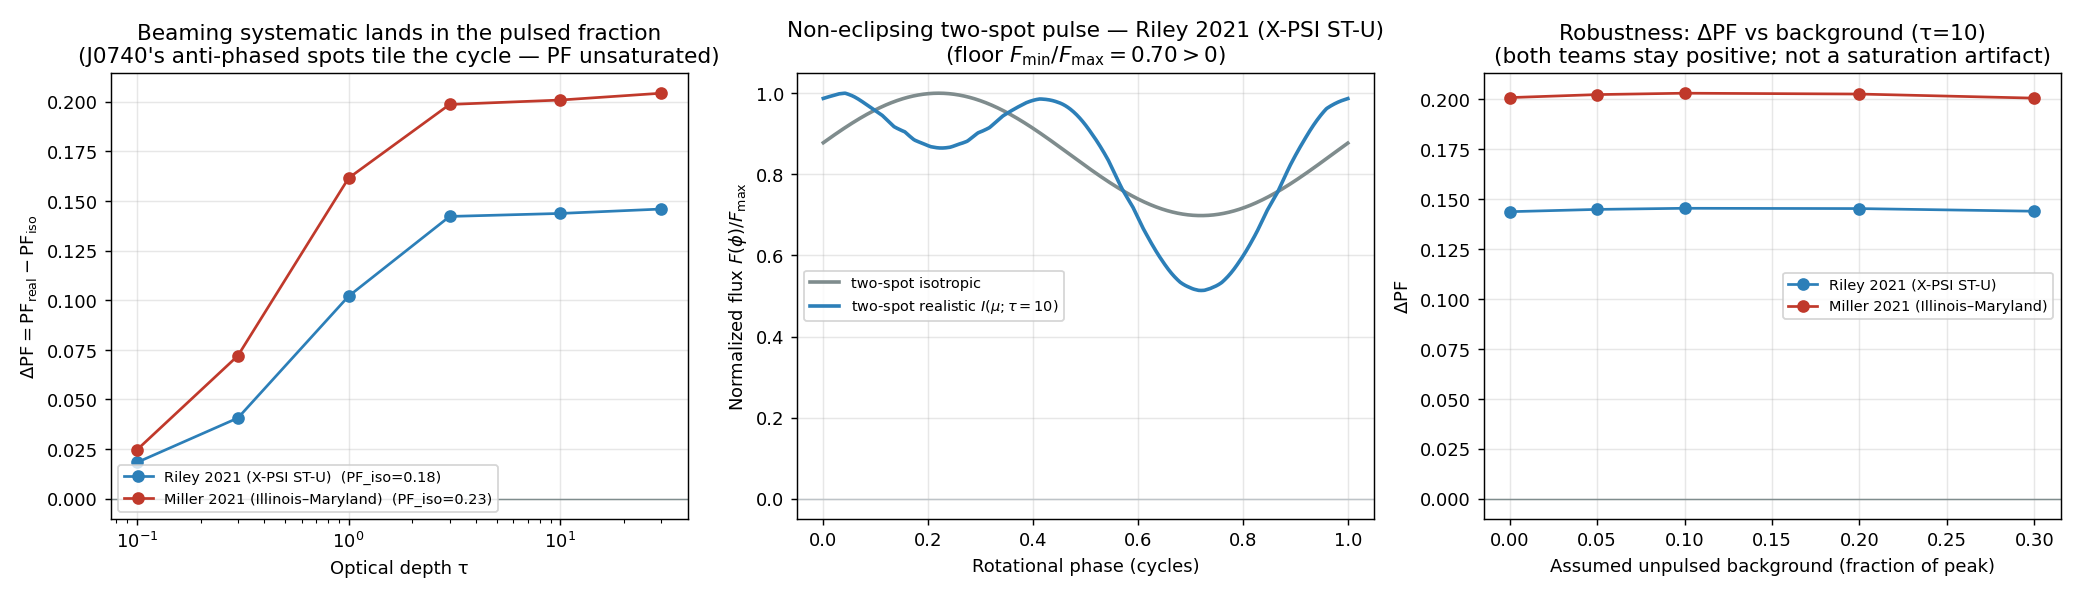
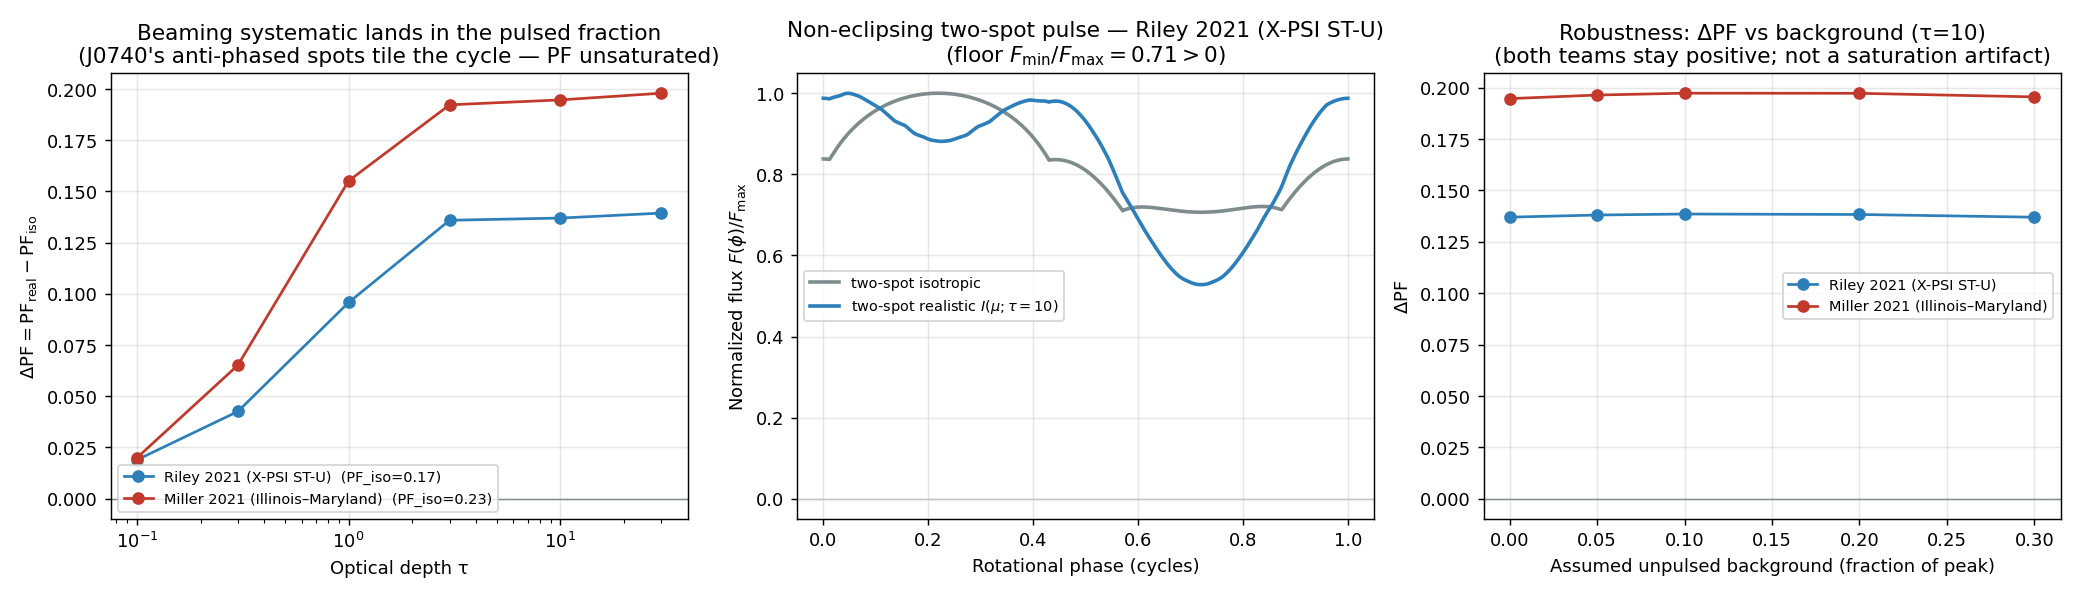
feat: v0.9.9.1 — enact Gate G1, switch J0740 anchors to exact bending
B2 measured that the linear Beloborodov map biases the J0740 headline ΔPF beyond
its own error bar (−0.0066, 2.1σ at Riley u=0.494; −0.0060, 1.1σ at Miller
u=0.444), so Gate G1 switches the anchors + phase-diagram star markers to the
exact Schwarzschild map. Same sign/size/geometry-routing — a tightening, not a
reversal: corrected headline +0.137 ± 0.003 (Riley) / +0.195 ± 0.005 (Miller),
the 0 Hz baseline Track C (Doppler/G2) stacks on top of.

anchor_lib.multi_spot_flux + the two visibility helpers gain an opt-in bending=
(None = linear, bit-for-bit unchanged). j0740_anchor.run() now builds
ExactBending(u) per anchor; phase_diagram.star_marker uses exact bending per
star while the broad heatmap stays linear (tolerance ≤ 0.007 at the compact
edge). a3_seed_errors stays linear on purpose — its gate compares against the
v0.9.7 (linear) convergence study, so the check is only meaningful linear-linear.

Bonus correction: linear extrapolates past the true grazing horizon (claims
visibility to ψ=167° vs the exact 150.6°), so "neither J0740 spot ever sets" was
an artifact — exact reveals ≈14% per-spot eclipse for Riley, yet the anti-phased
pair still tiles (floor 0.70), sharpening the tiling-not-eclipse thesis.
Regenerated figures on exact bending. Suite 82 green; linear headline reproduces
bit-for-bit.

diff --git a/scripts/j0740_anchor.py b/scripts/j0740_anchor.py
@@ -52,7 +52,7 @@ Run from the repository root:  python scripts/j0740_anchor.py
 import numpy as np
 import matplotlib.pyplot as plt
 
-from mcrt import beaming_lookup, pulsed_fraction
+from mcrt import ExactBending, beaming_lookup, pulsed_fraction
 from anchor_lib import (
     BACKGROUND_FRACS,
     N_PHASE,
@@ -123,15 +123,22 @@ MILLER = Anchor(
 ANCHORS = (RILEY, MILLER)
 
 
-def sweep_anchor(anchor, tau_values, mu_centers, intensity_by_tau):
+def sweep_anchor(anchor, tau_values, mu_centers, intensity_by_tau, bending=None):
     """ΔPF(τ) (the headline) plus the visibility numbers that explain its size.
 
     Both J0740 anchors keep PF unsaturated — Riley because no spot sets, Miller because
     the anti-phased spots tile the cycle even though each center dips behind ~21% of the
     time — so ΔPF is a live pulsed-fraction signal for both. The eclipse fraction and
     flux floor returned alongside it are what make that statement checkable.
+
+    ``bending`` selects the light-bending map: ``None`` is Beloborodov's linear default
+    (used by the ``a3_seed_errors`` linear cross-check against the v0.9.7 convergence
+    study); the standalone :func:`run` passes an :class:`mcrt.bending.ExactBending` per
+    anchor, because Gate G1 (v0.9.9.1) switched the J0740 anchors to exact Schwarzschild
+    bending — the −0.0066 (2.1σ) linear bias at u = 0.494 exceeds the seed error bar.
     """
-    iso = two_spot_flux(anchor.inclination, anchor.compactness, anchor.spots, None)
+    iso = two_spot_flux(anchor.inclination, anchor.compactness, anchor.spots, None,
+                        bending=bending)
     pf_iso = pulsed_fraction(iso)
 
     n_tau = len(tau_values)
@@ -142,7 +149,8 @@ def sweep_anchor(anchor, tau_values, mu_centers, intensity_by_tau):
     real_at_shape_tau = None
     for ti in range(n_tau):
         beaming = beaming_lookup(mu_centers, intensity_by_tau[ti])
-        real = two_spot_flux(anchor.inclination, anchor.compactness, anchor.spots, beaming)
+        real = two_spot_flux(anchor.inclination, anchor.compactness, anchor.spots,
+                             beaming, bending=bending)
         pf_real[ti] = pulsed_fraction(real)
         delta_pf[ti] = pf_real[ti] - pf_iso
         shape_rms[ti], _ = waveform_shape_change(iso, real)
@@ -151,9 +159,11 @@ def sweep_anchor(anchor, tau_values, mu_centers, intensity_by_tau):
 
     # Per-spot visibility: eclipse fraction (0 ⇒ never sets) and the grazing μ_min.
     eclipse = [single_spot_eclipsed_fraction(anchor.inclination, s.colatitude,
-                                             anchor.compactness) for s in anchor.spots]
+                                             anchor.compactness, bending=bending)
+               for s in anchor.spots]
     min_mu = [single_spot_min_visible_mu(anchor.inclination, s.colatitude,
-                                         anchor.compactness) for s in anchor.spots]
+                                         anchor.compactness, bending=bending)
+              for s in anchor.spots]
 
     return {
         "pf_iso": pf_iso,
@@ -276,9 +286,17 @@ def print_summary(tau_values, results):
 
 
 def run():
+    """Standalone run — **exact Schwarzschild bending** (Gate G1, v0.9.9.1).
+
+    Each anchor gets its own :class:`mcrt.bending.ExactBending(u)`; the linear
+    map is retained only in ``a3_seed_errors`` as the convergence cross-check.
+    """
     tau_values, mu_centers, intensity_by_tau = load_library()
-    results = {a.label: sweep_anchor(a, tau_values, mu_centers, intensity_by_tau)
-               for a in ANCHORS}
+    results = {}
+    for a in ANCHORS:
+        bending = ExactBending(a.compactness)
+        results[a.label] = sweep_anchor(a, tau_values, mu_centers,
+                                        intensity_by_tau, bending=bending)
     return tau_values, results
 
 

diff --git a/scripts/anchor_lib.py b/scripts/anchor_lib.py
@@ -53,46 +53,63 @@ class Anchor(NamedTuple):
     note: str             # weighting provenance / caveat
 
 
-def multi_spot_flux(inclination, compactness, spots, beaming, n_phase=N_PHASE):
+def multi_spot_flux(inclination, compactness, spots, beaming, n_phase=N_PHASE,
+                    bending=None):
     """Weighted sum of point-spot fluxes; azimuth = integer phase roll.
 
     Light is additive, so the observed flux is the weighted sum of each spot's
     single-spot profile. A spot at longitude φ₀ produces the φ₀-shifted profile,
     which on a uniform full-cycle grid is ``np.roll`` by round(φ₀·n_phase). The
     same ``beaming`` is handed to every spot, so swapping it is the only change.
+
+    ``bending`` selects the light-bending map, matching ``mcrt.compute_profile``:
+    ``None`` (default) is Beloborodov's linear map — **bit-for-bit unchanged** from
+    every prior anchor run — and an :class:`mcrt.bending.ExactBending` instance uses
+    the exact Schwarzschild map (Track B2). It is handed identically to every spot,
+    so exact-vs-linear is the only difference for a fixed geometry and ``beaming``.
     """
     total = np.zeros(n_phase)
     for spot in spots:
         prof = compute_profile(inclination, spot.colatitude, compactness,
-                               beaming=beaming, n_phase=n_phase)
+                               beaming=beaming, n_phase=n_phase, bending=bending)
         shift = int(round(spot.azimuth * n_phase)) % n_phase
         total += spot.weight * np.roll(prof.flux, shift)
     return total
 
 
 def single_spot_eclipsed_fraction(inclination, colatitude, compactness,
-                                  n_phase=N_PHASE):
+                                  n_phase=N_PHASE, bending=None):
     """Fraction of the rotation a *single* point spot spends below the horizon.
 
     Zero means the spot stays visible all rotation (J0740): then F_min > 0 and
     the pulsed fraction is unsaturated, so it can register the beaming swap. A
     large value (J0030) forces F_min = 0, pinning PF = 1 for every beaming and
     flattening the pulsed-fraction systematic to ΔPF ≈ 0.
+
+    ``bending`` selects the light-bending map (``None`` = linear default; an
+    :class:`mcrt.bending.ExactBending` uses the exact Schwarzschild horizon) so
+    the visibility diagnostics match whatever map the flux is computed with.
     """
-    prof = compute_profile(inclination, colatitude, compactness, n_phase=n_phase)
+    prof = compute_profile(inclination, colatitude, compactness, n_phase=n_phase,
+                           bending=bending)
     return float(np.mean(~prof.visible))
 
 
 def single_spot_min_visible_mu(inclination, colatitude, compactness,
-                               n_phase=N_PHASE):
+                               n_phase=N_PHASE, bending=None):
     """Smallest emission angle μ = cos α a *visible* single spot reaches.
 
     For a non-eclipsing but grazing geometry (J0740) this is the tiny but
     positive μ at the faint phase — the spot skims the limb without setting,
     which is why F_min is small yet non-zero. Returns ``nan`` if the spot is
     fully eclipsed at every phase (it never happens for the anchors used here).
+
+    ``bending`` selects the light-bending map (``None`` = linear default; an
+    :class:`mcrt.bending.ExactBending` uses the exact Schwarzschild map), keeping
+    the grazing μ_min consistent with the flux's bending choice.
     """
-    prof = compute_profile(inclination, colatitude, compactness, n_phase=n_phase)
+    prof = compute_profile(inclination, colatitude, compactness, n_phase=n_phase,
+                           bending=bending)
     if not np.any(prof.visible):
         return float("nan")
     return float(prof.cos_alpha[prof.visible].min())

diff --git a/scripts/phase_diagram.py b/scripts/phase_diagram.py
@@ -67,7 +67,7 @@ import numpy as np
 import matplotlib.pyplot as plt
 import matplotlib.patheffects as pe
 
-from mcrt import beaming_lookup, compute_profile, pulsed_fraction
+from mcrt import ExactBending, beaming_lookup, compute_profile, pulsed_fraction
 from anchor_lib import (
     N_PHASE,
     SHAPE_TAU,
@@ -166,9 +166,18 @@ def star_marker(anchor, beaming_shape):
     inclination, and compactness — not the canonical equal-θ cell — so the marker
     reports the real result regardless of how well the fit matches the canonical
     pair (it does not, exactly, for equator-straddling Riley J0740).
+
+    The marker's ΔPF uses **exact Schwarzschild bending** (Gate G1, v0.9.9.1): the
+    per-star result is the quantitative number the paper cites, so it carries the
+    bending correction. The broad heatmap behind it stays on the linear map for
+    cost (stated tolerance: the exact−linear ΔPF gap is ≤ 0.007 at the u = 0.49
+    compact panel, smaller elsewhere — far below the marker/boundary resolution).
     """
-    iso = two_spot_flux(anchor.inclination, anchor.compactness, anchor.spots, None)
-    real = two_spot_flux(anchor.inclination, anchor.compactness, anchor.spots, beaming_shape)
+    bending = ExactBending(anchor.compactness)
+    iso = two_spot_flux(anchor.inclination, anchor.compactness, anchor.spots, None,
+                        bending=bending)
+    real = two_spot_flux(anchor.inclination, anchor.compactness, anchor.spots,
+                         beaming_shape, bending=bending)
     # Fold the separation into [0, 0.5]: a pair at Δφ and at 1−Δφ are mirror images
     # with identical PF, and the sweep axis only spans the non-redundant half. Without
     # this, Miller J0740 (Δφ = 0.56) would silently fall off the right edge of the map.

diff --git a/scripts/a3_seed_errors.py b/scripts/a3_seed_errors.py
@@ -12,6 +12,14 @@ single seed's ``intensity_by_tau_seed[:, si, :]`` slice already has the
 (n_tau, n_bins) shape those functions expect. The pooled-curve result is quoted
 alongside as the central value.
 
+This driver stays on the **linear** Beloborodov map on purpose: its gate compares
+Riley ΔPF(τ=10) against the v0.9.7 convergence study (+0.1486), which was itself
+computed with linear bending, so the check is only meaningful linear-vs-linear. As
+of Gate G1 (v0.9.9.1) the *published* J0740 headline uses exact Schwarzschild
+bending — that per-seed number (+0.137 ± 0.003 Riley / +0.195 ± 0.005 Miller) lives
+in ``scripts/b2_exact_bending.py``; this file remains the linear self-consistency
+cross-check and the source of the J0030 shape-RMS ± σ.
+
 Run from the repository root:  PYTHONPATH=src:scripts python3 scripts/a3_seed_errors.py
 """
 